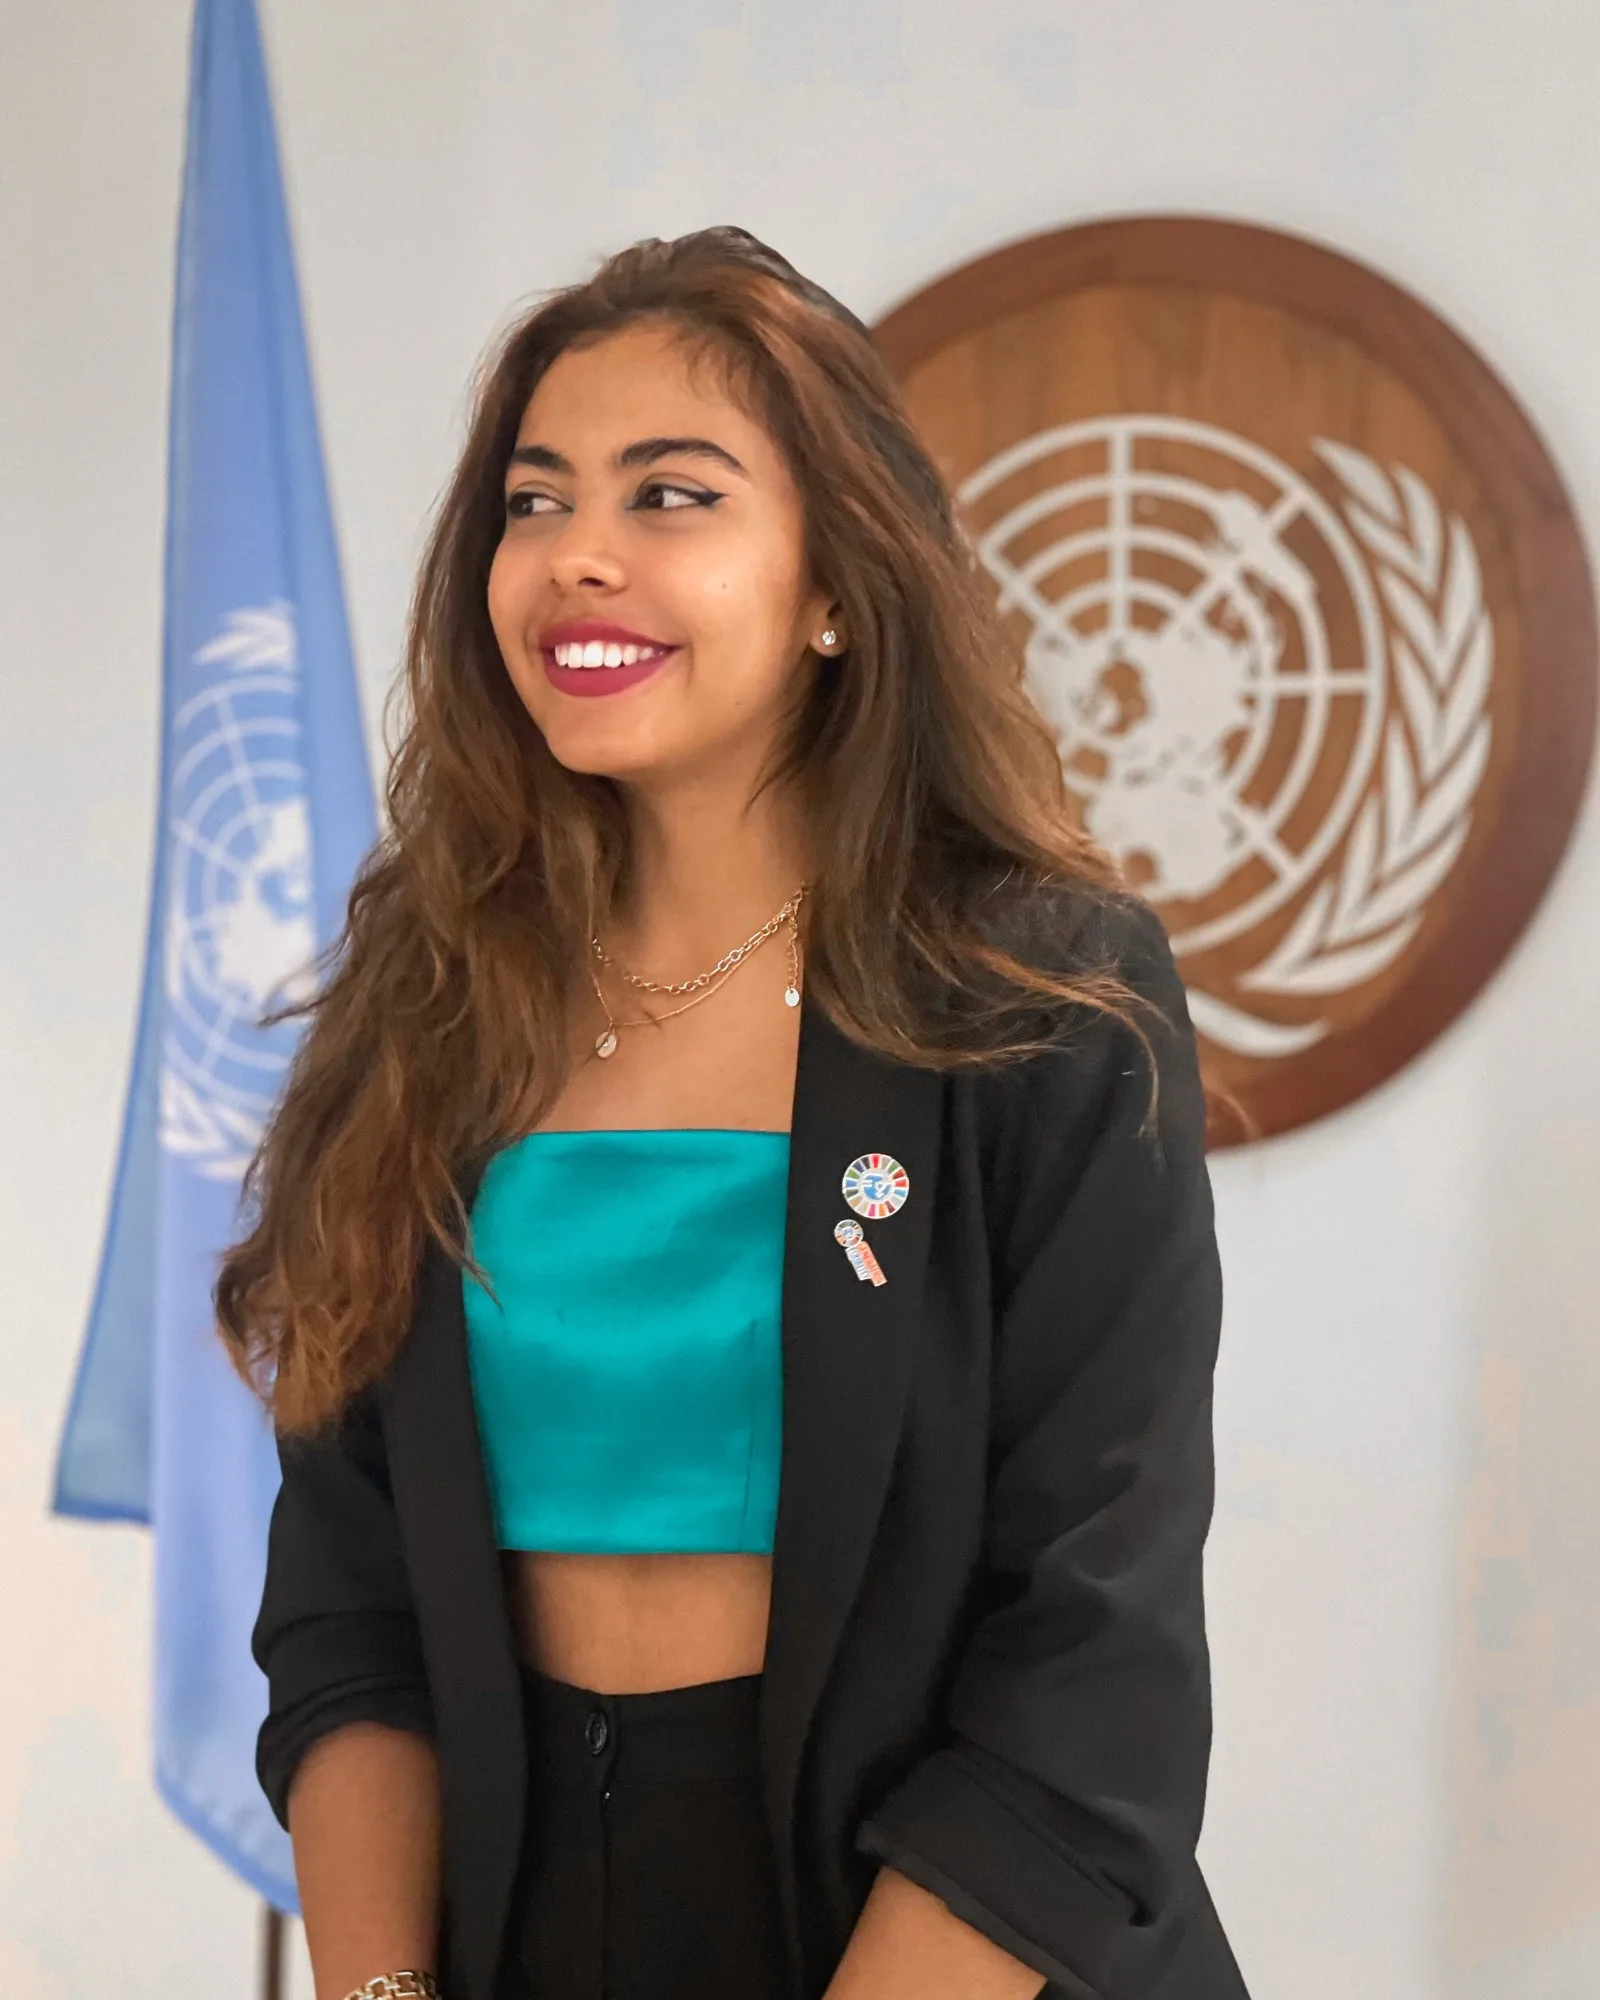
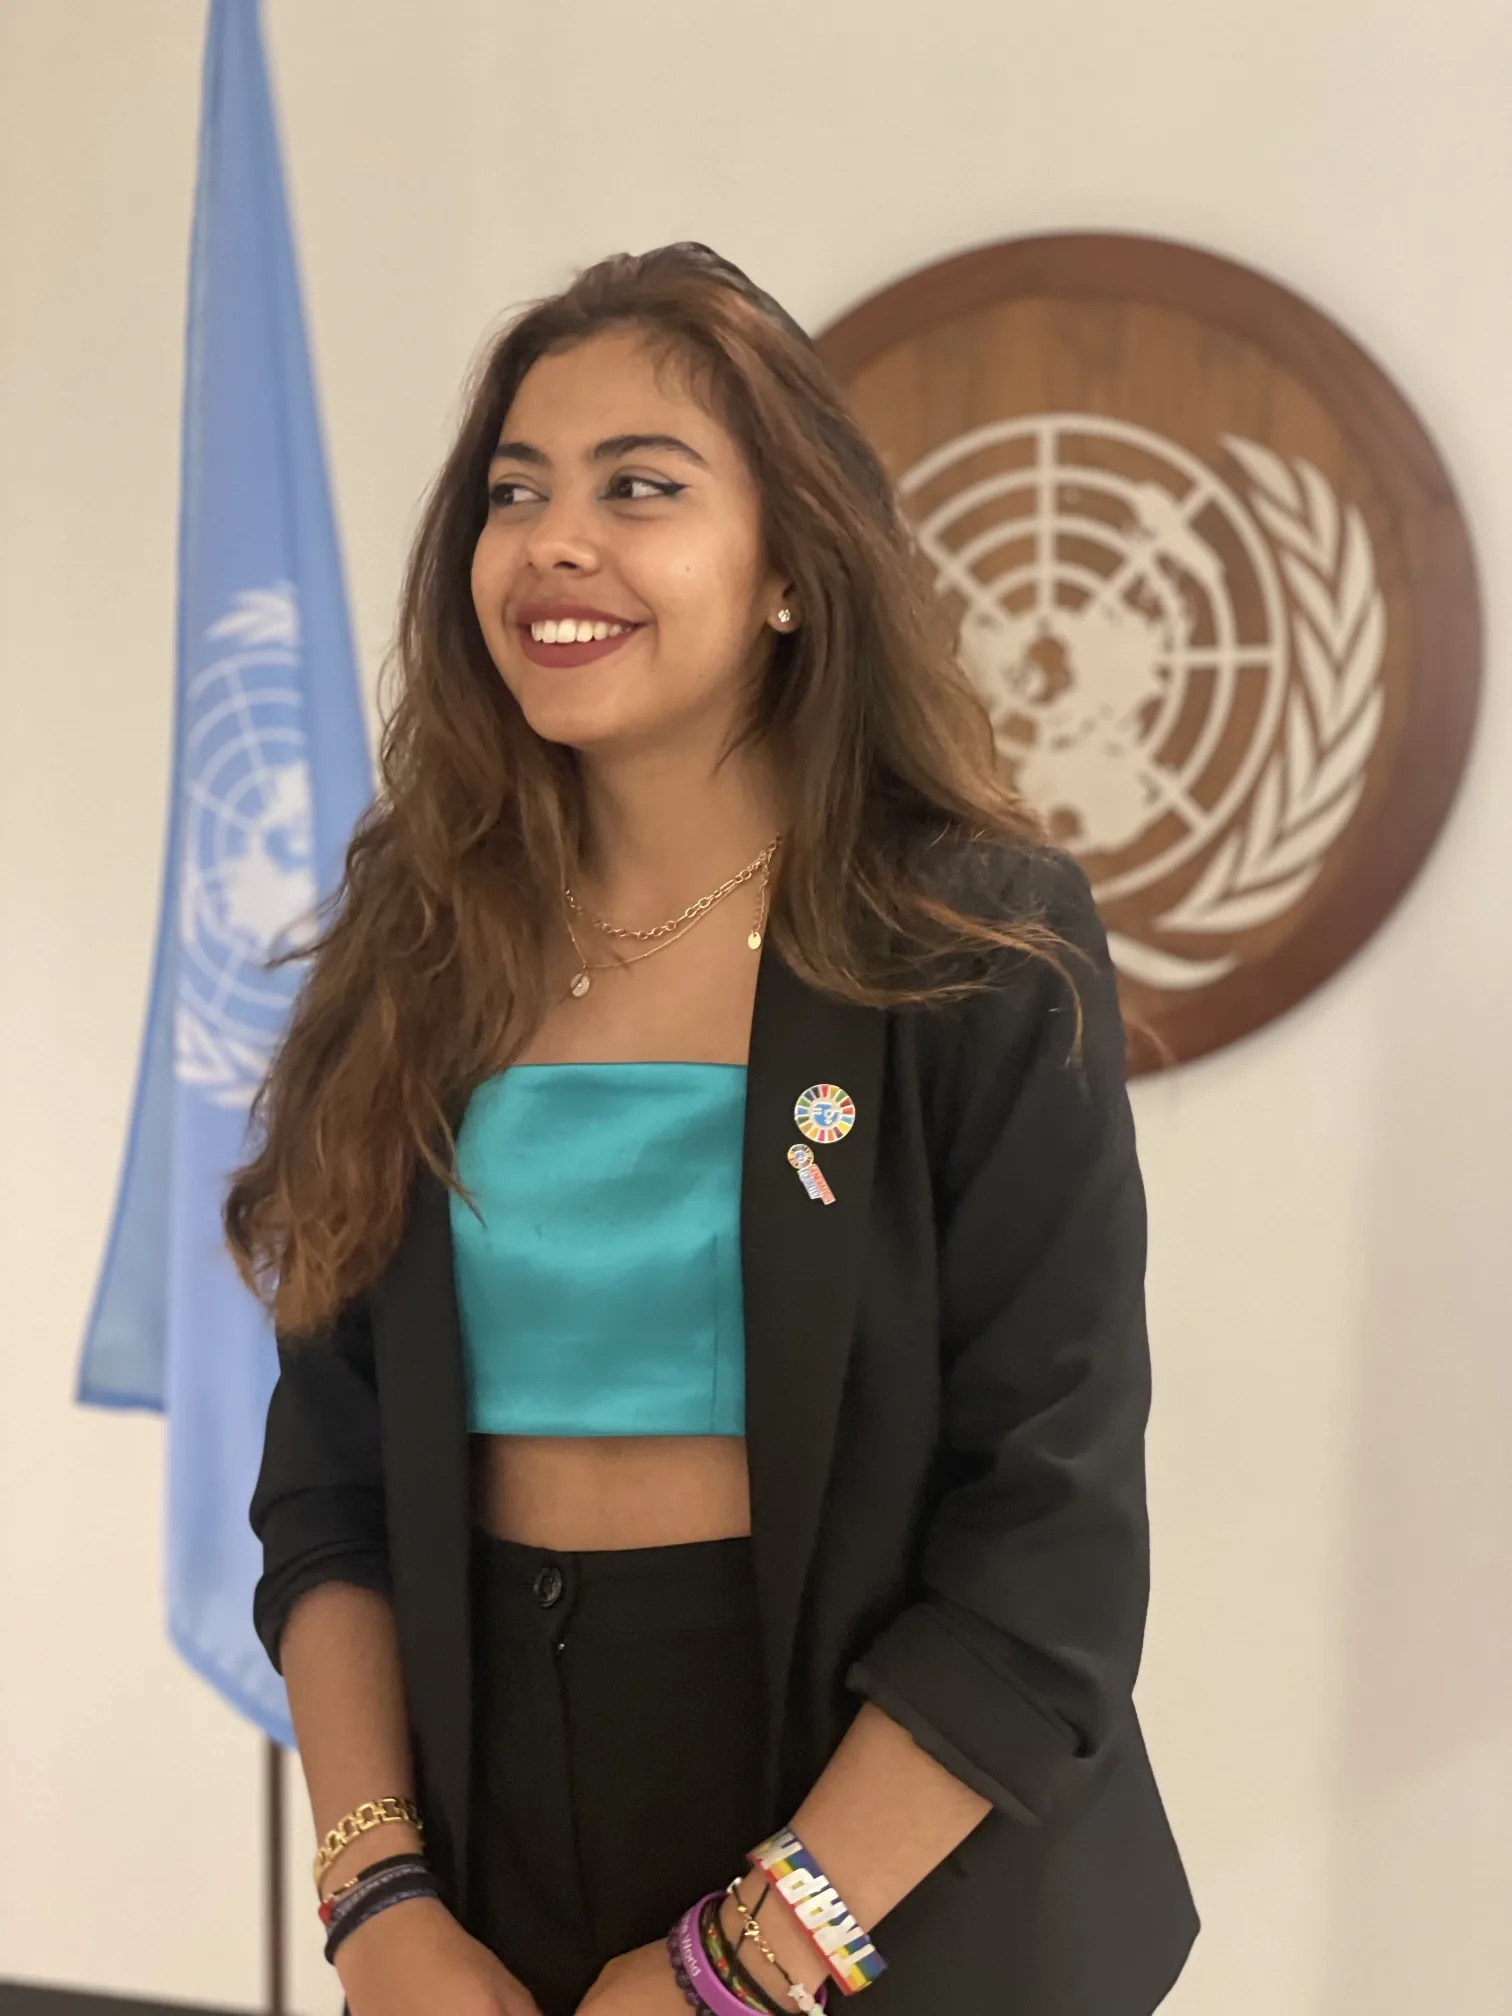
Replace UN photo on About page
Claude-Session: https://claude.ai/code/session_01EE8th4pT9jXq3wxDzzN7fe

diff --git a/src/components/About.jsx b/src/components/About.jsx
@@ -101,7 +101,7 @@ export default function About() {
                 style={{ transform: `rotate(${turn}deg)`, zIndex: i + 1 }}
               >
                 <img
-                  src={`/images/about/${file}.webp?v=2`}
+                  src={`/images/about/${file}.webp?v=3`}
                   alt={alt}
                   loading="lazy"
                   decoding="async"
